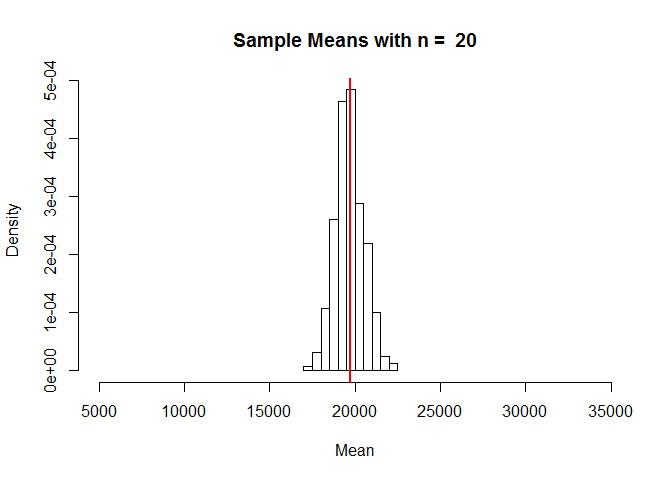
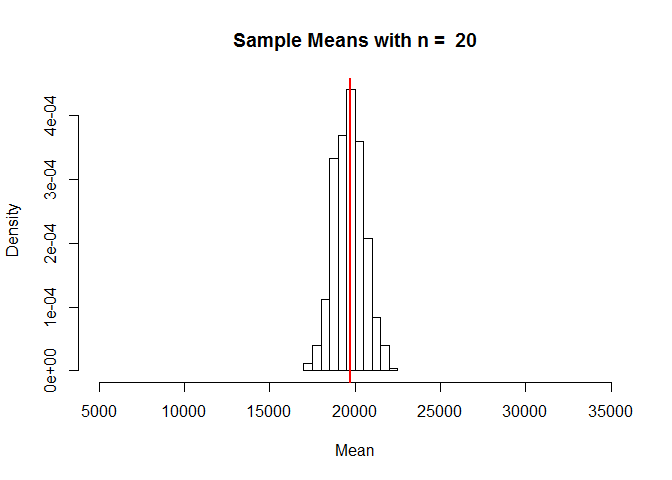
More tweaks to 4.2

Changed region(s): [[0.0625, 0.125, 0.0938, 0.6875]]

diff --git a/Module04-2.html b/Module04-2.html
@@ -134,21 +134,22 @@ require(MASS)</code></pre>
 <p>First, we read in the dataset and construct a density histogram of the average yearly cost of attendance. We will also calculate and plot a vertical line at the mean of this variable.</p>
 <pre class="r"><code>collegecost &lt;- read.csv(&quot;http://www.math.usu.edu/cfairbourn/Stat2300/RStudioFiles/data/collegecost.csv&quot;)
 
-hist(collegecost$yearly,
+datamean &lt;- round(mean(collegecost$yearly), 2)
+datamean</code></pre>
+<pre><code>## [1] 19719.76</code></pre>
+<pre class="r"><code>hist(collegecost$yearly,
      main = &quot;Public Universities in the United States, 2013&quot;,
      xlab = &quot;Average yearly cost of attendance in $&quot;,
      prob = TRUE)
-abline(v = mean(collegecost$yearly), col = &quot;red&quot;, lwd = 3)</code></pre>
+abline(v = datamean, col = &quot;red&quot;, lwd = 3)</code></pre>
[1 lines of base64/hex data omitted]
-<pre class="r"><code>mean(collegecost$yearly)</code></pre>
-<pre><code>## [1] 19719.76</code></pre>
 <p>Let’s take a simple random sample of 5 of these universities and store the results in a vector called x. We will also calculate the mean for the sample. Notice that if you run the same code on your computer, you will not get the same answer as is shown here. This is because R draws a new sample of 5 colleges each time you run the command.</p>
 <pre class="r"><code>x &lt;- sample(collegecost$yearly, 5)
 #look at the numbers in this sample and calculate the mean
 x #data for this sample</code></pre>
-<pre><code>## [1] 19894 15906 21338 18158 20404</code></pre>
+<pre><code>## [1] 20330 17742 17576 15611 21862</code></pre>
 <pre class="r"><code>mean(x) #this sample mean</code></pre>
-<pre><code>## [1] 19140</code></pre>
+<pre><code>## [1] 18624.2</code></pre>
 <p>Run the code below 3 more times and make note of the mean of each sample. Then calculate the average of your sample means and compare the result to the true mean of 1.97197610^{4}.</p>
 <pre class="r"><code>x &lt;- sample(collegecost$yearly, 5)
 x
@@ -157,10 +158,10 @@ mean(x)</code></pre>
 <p>Let’s repeat this for a larger sample size. Make note of the mean of each sample.</p>
 <pre class="r"><code>x &lt;- sample(collegecost$yearly, 20)
 x #data for this sample</code></pre>
-<pre><code>##  [1] 24375 16707  7715 16107 20601 18406 16953 18387 17093 22485 16605
-## [12] 22497 15207 22800 16377 13026 21601 15753 15395 13065</code></pre>
+<pre><code>##  [1] 20422 18809 20799 17478 14034 14710 13735 18837 17290 27759 18936
+## [12] 18466 23685 20269 15414 22461 23124 19831 15272 17125</code></pre>
 <pre class="r"><code>mean(x) #this sample mean</code></pre>
-<pre><code>## [1] 17557.75</code></pre>
+<pre><code>## [1] 18922.8</code></pre>
 <p>Run the code below 3 more times and make note of the mean of each sample. Then calculate the average of your sample means and compare the result to the true mean of 1.97197610^{4}.</p>
 <pre class="r"><code>x &lt;- sample(collegecost$yearly, 20)
 x
@@ -169,14 +170,14 @@ mean(x)</code></pre>
 <p>Repeat once more for an even larger sample size. Again, make a note of the mean of each sample.</p>
 <pre class="r"><code>x &lt;- sample(collegecost$yearly, 50)
 x #data for this sample</code></pre>
-<pre><code>##  [1] 16684 22926 14050 21160 16538 17487 14549 13735 18959 21732 21432
-## [12] 19843 28980 18879 21249 18092 13756 20846 18472 29751 18077 19178
-## [23] 19117 21971 13026 20799 21862 19299 18042 20611 17440 16953 14925
-## [34] 15218 22771 16345 22461 20796 19173 20899 25799 15906 21966 22936
-## [45] 15874 23346 21398 24234 16877 20422</code></pre>
+<pre><code>##  [1] 20762 21823 17487 21222 18822 16663 13735 14292 16071 19446 15612
+## [12] 20881 22420 19917 20774 22550 22926 15121 18077 19829 15272 17576
+## [23] 20025 22974 22771 16361 19571 20478 20282 21990 25416 23740 21980
+## [34] 24375 15002 19202 17896 23905 19831 10889 14478 18875 13676 12957
+## [45] 20075 24234 18837 22273 19549 21433</code></pre>
 <pre class="r"><code>mean(x) #this sample mean</code></pre>
-<pre><code>## [1] 19536.82</code></pre>
-<p>Run the code below 3 more times and make note of the mean of each sample. Once more, calculate the average of your sample means and compare the result to the true 4 mean of 1.97197610^{4}.</p>
+<pre><code>## [1] 19287.06</code></pre>
+<p>Run the code below 3 more times and make note of the mean of each sample. Once more, calculate the average of your sample means and compare the result to the true mean of 1.97197610^{4}.</p>
 <pre class="r"><code>x &lt;- sample(collegecost$yearly, 50)
 x
 mean(x)</code></pre>
@@ -190,7 +191,7 @@ xbar = rep(0,500) #This creates a vector of 500 0s.
 for(i in 1:500) {xbar[i] = mean(sample(collegecost$yearly, n))}</code></pre>
 <p>Calculate the mean of the 500 sample means and compare it to the population mean, then create a histogram of the 500 sample means with a line at the population mean.</p>
 <pre class="r"><code>mean(xbar) #the mean of the sample means</code></pre>
-<pre><code>## [1] 19716.01</code></pre>
+<pre><code>## [1] 19806.06</code></pre>
 <pre class="r"><code>mean(collegecost$yearly) #the population mean</code></pre>
 <pre><code>## [1] 19719.76</code></pre>
 <pre class="r"><code>hist(xbar, 
@@ -199,8 +200,8 @@ for(i in 1:500) {xbar[i] = mean(sample(collegecost$yearly, n))}</code></pre>
      xlim = c(5000, 35000),
      main = paste(&quot;Sample Means with n = &quot;, n),
      xlab = &quot;Mean&quot;)
-abline(v = mean(collegecost$yearly), col = &quot;red&quot;, lwd = 2)</code></pre>
[1 lines of base64/hex data omitted]
+abline(v = datamean, col = &quot;red&quot;, lwd = 2)</code></pre>
[1 lines of base64/hex data omitted]
 <p>Compare the sample means histogram to the data histogram. What do they have in common? How are they different?</p>
 <p><strong>Let’s change the sample size to n = 20 and repeat.</strong></p>
 <pre class="r"><code>n&lt;-20
@@ -208,7 +209,7 @@ xbar = rep(0,500)
 for(i in 1:500) {xbar[i] = mean(sample(collegecost$yearly, n))}
 
 mean(xbar) #the mean of the sample means</code></pre>
-<pre><code>## [1] 19668.55</code></pre>
+<pre><code>## [1] 19659.84</code></pre>
 <pre class="r"><code>mean(collegecost$yearly) #the population mean</code></pre>
 <pre><code>## [1] 19719.76</code></pre>
 <pre class="r"><code>hist(xbar, 
@@ -217,15 +218,15 @@ mean(xbar) #the mean of the sample means</code></pre>
      xlim = c(5000, 35000),
      main = paste(&quot;Sample Means with n = &quot;, n),
      xlab = &quot;Mean&quot;)
-abline(v = mean(collegecost$yearly), col = &quot;red&quot;, lwd = 2)</code></pre>
[1 lines of base64/hex data omitted]
+abline(v = datamean, col = &quot;red&quot;, lwd = 2)</code></pre>
[1 lines of base64/hex data omitted]
 <p><strong>Finally, let’s change the sample size to n = 50 and repeat one last time.</strong></p>
 <pre class="r"><code>n &lt;- 50
 xbar = rep(0,500)
 for(i in 1:500) {xbar[i] = mean(sample(collegecost$yearly, n))}
 
 mean(xbar) #the mean of the sample means</code></pre>
-<pre><code>## [1] 19720.67</code></pre>
+<pre><code>## [1] 19714.03</code></pre>
 <pre class="r"><code>mean(collegecost$yearly) #the population mean</code></pre>
 <pre><code>## [1] 19719.76</code></pre>
 <pre class="r"><code>hist(xbar, 
@@ -234,8 +235,8 @@ mean(xbar) #the mean of the sample means</code></pre>
      xlim = c(5000, 35000),
      main = paste(&quot;Sample Means with n = &quot;, n),
      xlab = &quot;Mean&quot;)
-abline(v = mean(collegecost$yearly), col = &quot;red&quot;, lwd = 2)</code></pre>
[1 lines of base64/hex data omitted]
+abline(v = datamean, col = &quot;red&quot;, lwd = 2)</code></pre>
[1 lines of base64/hex data omitted]
 </div>
 </div>
 

diff --git a/Module04-2.md b/Module04-2.md
@@ -21,22 +21,23 @@ First, we read in the dataset and construct a density histogram of the average y
 ```r
 collegecost <- read.csv("http://www.math.usu.edu/cfairbourn/Stat2300/RStudioFiles/data/collegecost.csv")
 
-hist(collegecost$yearly,
-     main = "Public Universities in the United States, 2013",
-     xlab = "Average yearly cost of attendance in $",
-     prob = TRUE)
-abline(v = mean(collegecost$yearly), col = "red", lwd = 3)
-```
-
-![](Module04-2_files/figure-html/unnamed-chunk-2-1.png)<!-- -->
-
-```r
-mean(collegecost$yearly)
+datamean <- round(mean(collegecost$yearly), 2)
+datamean
 ```
 
 ```
 ## [1] 19719.76
 ```
+
+```r
+hist(collegecost$yearly,
+     main = "Public Universities in the United States, 2013",
+     xlab = "Average yearly cost of attendance in $",
+     prob = TRUE)
+abline(v = datamean, col = "red", lwd = 3)
+```
+
+![](Module04-2_files/figure-html/unnamed-chunk-2-1.png)<!-- -->
 
 Let's take a simple random sample of 5 of these universities and store the results in a vector called x. We will also calculate the mean for the sample. Notice that if you run the same code on your computer, you will not get the same answer as is shown here. This is because R draws a new sample of 5 colleges each time you run the command.
 
@@ -48,7 +49,7 @@ x #data for this sample
 ```
 
 ```
-## [1] 19894 15906 21338 18158 20404
+## [1] 20330 17742 17576 15611 21862
 ```
 
 ```r
@@ -56,7 +57,7 @@ mean(x) #this sample mean
 ```
 
 ```
-## [1] 19140
+## [1] 18624.2
 ```
 
 Run the code below 3 more times and make note of the mean of each sample. Then calculate the average of your sample means and compare the result to the true mean of 1.971976\times 10^{4}. 
@@ -79,8 +80,8 @@ x #data for this sample
 ```
 
 ```
-##  [1] 24375 16707  7715 16107 20601 18406 16953 18387 17093 22485 16605
-## [12] 22497 15207 22800 16377 13026 21601 15753 15395 13065
+##  [1] 20422 18809 20799 17478 14034 14710 13735 18837 17290 27759 18936
+## [12] 18466 23685 20269 15414 22461 23124 19831 15272 17125
 ```
 
 ```r
@@ -88,7 +89,7 @@ mean(x) #this sample mean
 ```
 
 ```
-## [1] 17557.75
+## [1] 18922.8
 ```
 
 Run the code below 3 more times and make note of the mean of each sample. Then calculate the average of your sample means and compare the result to the true mean of 1.971976\times 10^{4}. 
@@ -111,11 +112,11 @@ x #data for this sample
 ```
 
 ```
-##  [1] 16684 22926 14050 21160 16538 17487 14549 13735 18959 21732 21432
-## [12] 19843 28980 18879 21249 18092 13756 20846 18472 29751 18077 19178
-## [23] 19117 21971 13026 20799 21862 19299 18042 20611 17440 16953 14925
-## [34] 15218 22771 16345 22461 20796 19173 20899 25799 15906 21966 22936
-## [45] 15874 23346 21398 24234 16877 20422
+##  [1] 20762 21823 17487 21222 18822 16663 13735 14292 16071 19446 15612
+## [12] 20881 22420 19917 20774 22550 22926 15121 18077 19829 15272 17576
+## [23] 20025 22974 22771 16361 19571 20478 20282 21990 25416 23740 21980
+## [34] 24375 15002 19202 17896 23905 19831 10889 14478 18875 13676 12957
+## [45] 20075 24234 18837 22273 19549 21433
 ```
 
 ```r
@@ -123,10 +124,10 @@ mean(x) #this sample mean
 ```
 
 ```
-## [1] 19536.82
+## [1] 19287.06
 ```
 
-Run the code below 3 more times and make note of the mean of each sample. Once more, calculate the average of your sample means and compare the result to the true 4 mean of 1.971976\times 10^{4}. 
+Run the code below 3 more times and make note of the mean of each sample. Once more, calculate the average of your sample means and compare the result to the true mean of 1.971976\times 10^{4}. 
 
 
 ```r
@@ -154,7 +155,7 @@ mean(xbar) #the mean of the sample means
 ```
 
 ```
-## [1] 19716.01
+## [1] 19806.06
 ```
 
 ```r
@@ -172,7 +173,7 @@ hist(xbar,
      xlim = c(5000, 35000),
      main = paste("Sample Means with n = ", n),
      xlab = "Mean")
-abline(v = mean(collegecost$yearly), col = "red", lwd = 2)
+abline(v = datamean, col = "red", lwd = 2)
 ```
 
 ![](Module04-2_files/figure-html/unnamed-chunk-10-1.png)<!-- -->
@@ -190,7 +191,7 @@ mean(xbar) #the mean of the sample means
 ```
 
 ```
-## [1] 19668.55
+## [1] 19659.84
 ```
 
 ```r
@@ -208,7 +209,7 @@ hist(xbar,
      xlim = c(5000, 35000),
      main = paste("Sample Means with n = ", n),
      xlab = "Mean")
-abline(v = mean(collegecost$yearly), col = "red", lwd = 2)
+abline(v = datamean, col = "red", lwd = 2)
 ```
 
 ![](Module04-2_files/figure-html/unnamed-chunk-11-1.png)<!-- -->
@@ -224,7 +225,7 @@ mean(xbar) #the mean of the sample means
 ```
 
 ```
-## [1] 19720.67
+## [1] 19714.03
 ```
 
 ```r
@@ -242,7 +243,7 @@ hist(xbar,
      xlim = c(5000, 35000),
      main = paste("Sample Means with n = ", n),
      xlab = "Mean")
-abline(v = mean(collegecost$yearly), col = "red", lwd = 2)
+abline(v = datamean, col = "red", lwd = 2)
 ```
 
 ![](Module04-2_files/figure-html/unnamed-chunk-12-1.png)<!-- -->
